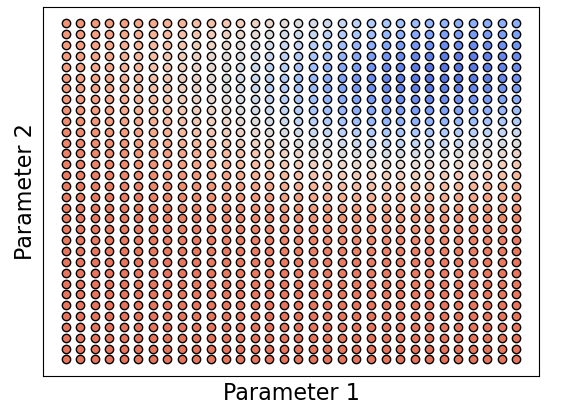
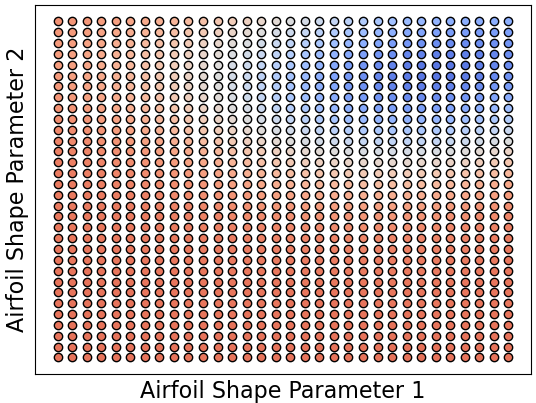
updates

diff --git a/blog_panelmethod.html b/blog_panelmethod.html
@@ -93,7 +93,26 @@ th {
       So let's imagine this: you are a brand new aerospace engineer (congratulations). 
       For your first project, you're told that the company is looking to design a new wing concept. 
       It needs to be as thick as possible at the quarter-chord, in order to allow for a sufficiently large spar. 
-      At the same time, there are desired aerodynamic properties that need to be maintained in trim flight conditions. 
+      At the same time, there are desired aerodynamic properties that need to be maintained in trim flight conditions.</h5>
+      
+      <table>
+        <tr>
+          <td style='text-align:center; width:50%'>
+        <figure>
+            <img src="images/afoil_spar.png" style='width:100%'/>
+            <figcaption class="figure-caption text-center"><b>Desired structure (airfoil thickness).</b></figcaption>
+        </figure>
+      </td>
+      <td style='text-align:center;'> 
+        <figure>
+          <img src="images/cp_target.png" style='width:100%'/>
+          <figcaption class="figure-caption text-center"><b>Desired aerodynamics (pressure distribution).</b></figcaption>
+        </figure>
+        </td>
+        </tr>
+      </table>  
+      
+    <h5> So, you'll need to find the airfoil shape that best satisfies both objectives simultaneously.
       You want to use computer simulations or experiments to find the best answer, but these are time-consuming, or expensive, or just plain hard to do <code>&#8212;</code> meaning you can't just "brute force" your way to an answer.</h5>
 
       <table>
@@ -101,13 +120,13 @@ th {
         <td style='text-align:center;'>
       <figure>
           <img src="images/brute_force_sampling.png" style='width:100%'/>
-          <figcaption class="figure-caption text-center"><b>Not <s>cool</s> feasible.</b></figcaption>
+          <figcaption class="figure-caption text-center"><b>Not a <s>cool</s> feasible way to find the best airfoil.</b></figcaption>
       </figure>
     </td>
     <td style='text-align:center;'> 
       <figure>
         <img src="images/smart_sampling.png" style='width:100%'/>
-        <figcaption class="figure-caption text-center"><b>Very <s>cool</s> feasible.</b></figcaption>
+        <figcaption class="figure-caption text-center"><b>Very <s>cool</s> feasible way to find the best airfoil.</b></figcaption>
       </figure>
       </td>
       </tr>
@@ -125,7 +144,8 @@ th {
   <div class="w3-content">
     <h3>The problem, part 2: parameterization of the airfoil</h3>
     <h5>To do this, we'll first need a way of talking about the airfoil shapes we're going to test. 
-      If you were to discretize an airfoil into a set of, say, 100 points in the 2-d plane, and then consider all possible airfoils constructed by independent variations of those 100 points, then you would be optimizing over a 100 dimensional parameter space; or, to put it bluntly, up sh**'s creek without a paddle.
+      If you were to discretize an airfoil into a set of, say, 100 points in the 2-d plane, and then consider all possible airfoils constructed by independent variations of those 100 points, then you would be optimizing over a 100 dimensional parameter space.
+      This is not the kind of place you should like to be in.
     </h5>
     <h5>How one can "compress" a space of enormous dimension such as this into a much smaller one without significant loss of information is what the field of low-dimensional modeling is all about.
       This is near and dear to my heart, but also a vast subject that it deserves its own blog post (coming soon, probably).
@@ -133,7 +153,7 @@ th {
     </h5>
     \[ \pm y(m,T) = {T \over 0.2} \left[ a_0 \sqrt{x} + a_1 x + a_2 x^2 + a_3 x^3 \right] \;\;\; \text{for} \;\;\; 0 \le x \le m \]
     \[ \pm y(m,T) = {T \over 0.2} \left[ d_0 + d_1 ( 1 - x ) + d_2 ( 1 - x^2 ) + d_3 ( 1 - x^3 ) \right] \;\;\; \text{for} \;\;\; m \le x \le 1 \]
-    <h5>I know <code>&#8212;</code> it's ugly. But this is a convenient parameterization (thanks to <a href="https://matthewwang.xyz/wp-content/uploads/2018/08/NACA-symmetric-universal-formula.pdf">this guy</a>) of the symmetric NACA 4-series family of airfoils, in terms of two parameters: \(m\), the location of maximum thickness, and \(T\), the maximum thickness (the \(a_i,d_i\) are functions of \(m,T\)).
+    <h5>This equation definitely does not win any prizes for mathematical beauty. Nevertheless, it's a convenient parameterization (thanks to <a href="https://matthewwang.xyz/wp-content/uploads/2018/08/NACA-symmetric-universal-formula.pdf">this guy</a>) of the symmetric NACA 4-series family of airfoils, in terms of two parameters: \(m\), the location of maximum thickness, and \(T\), the maximum thickness (the \(a_i,d_i\) are functions of \(m,T\)).
       This is the space of admissible airfoils we will consider. 
       Below are some examples of the sorts of shapes you can get.
     </h5>
